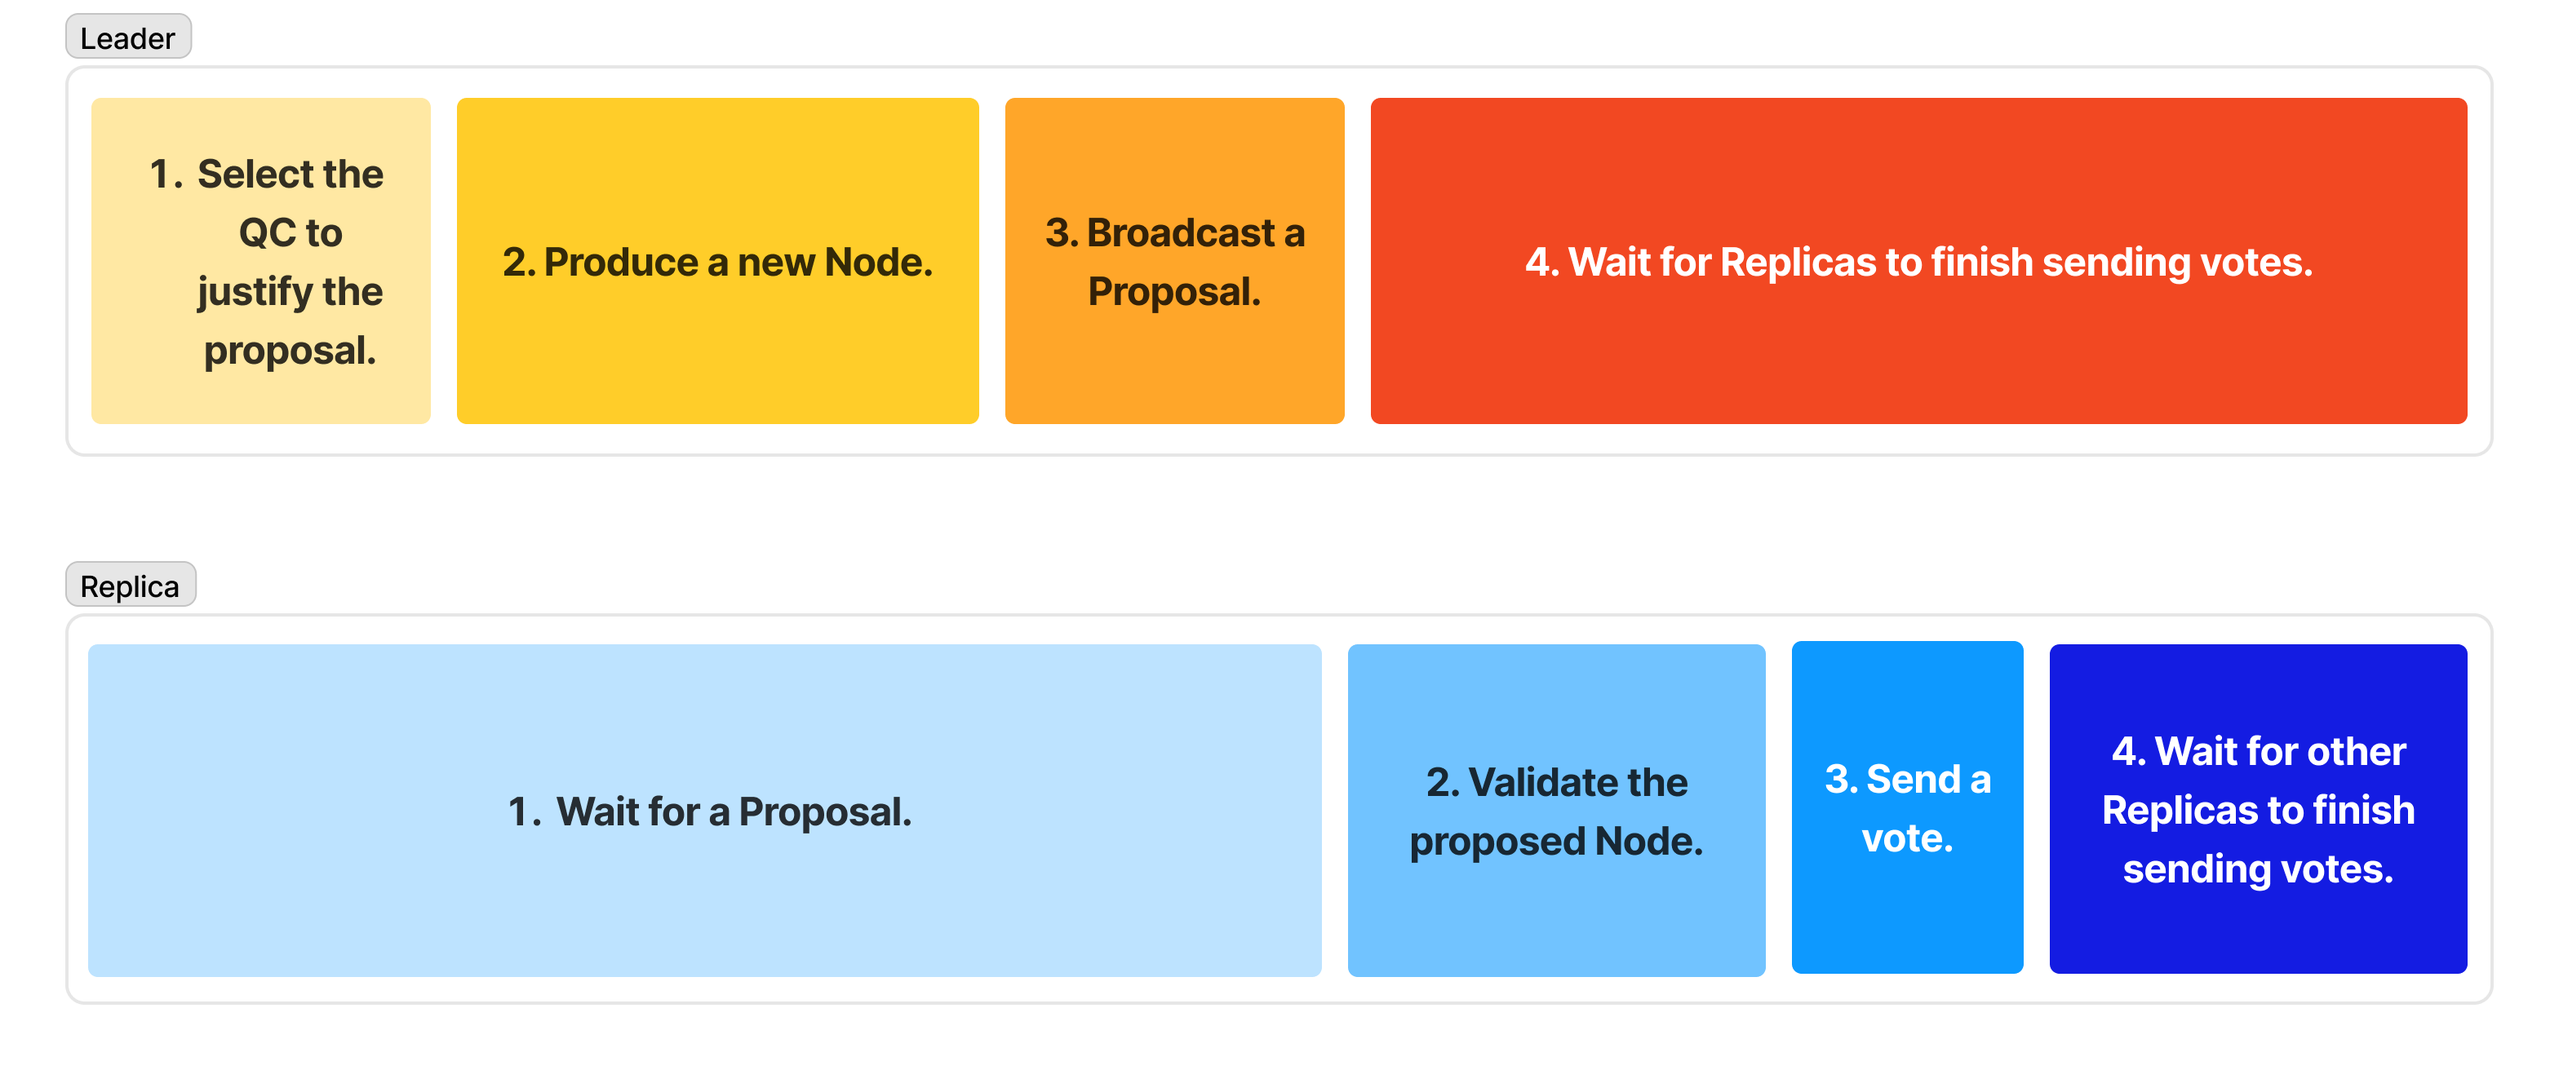
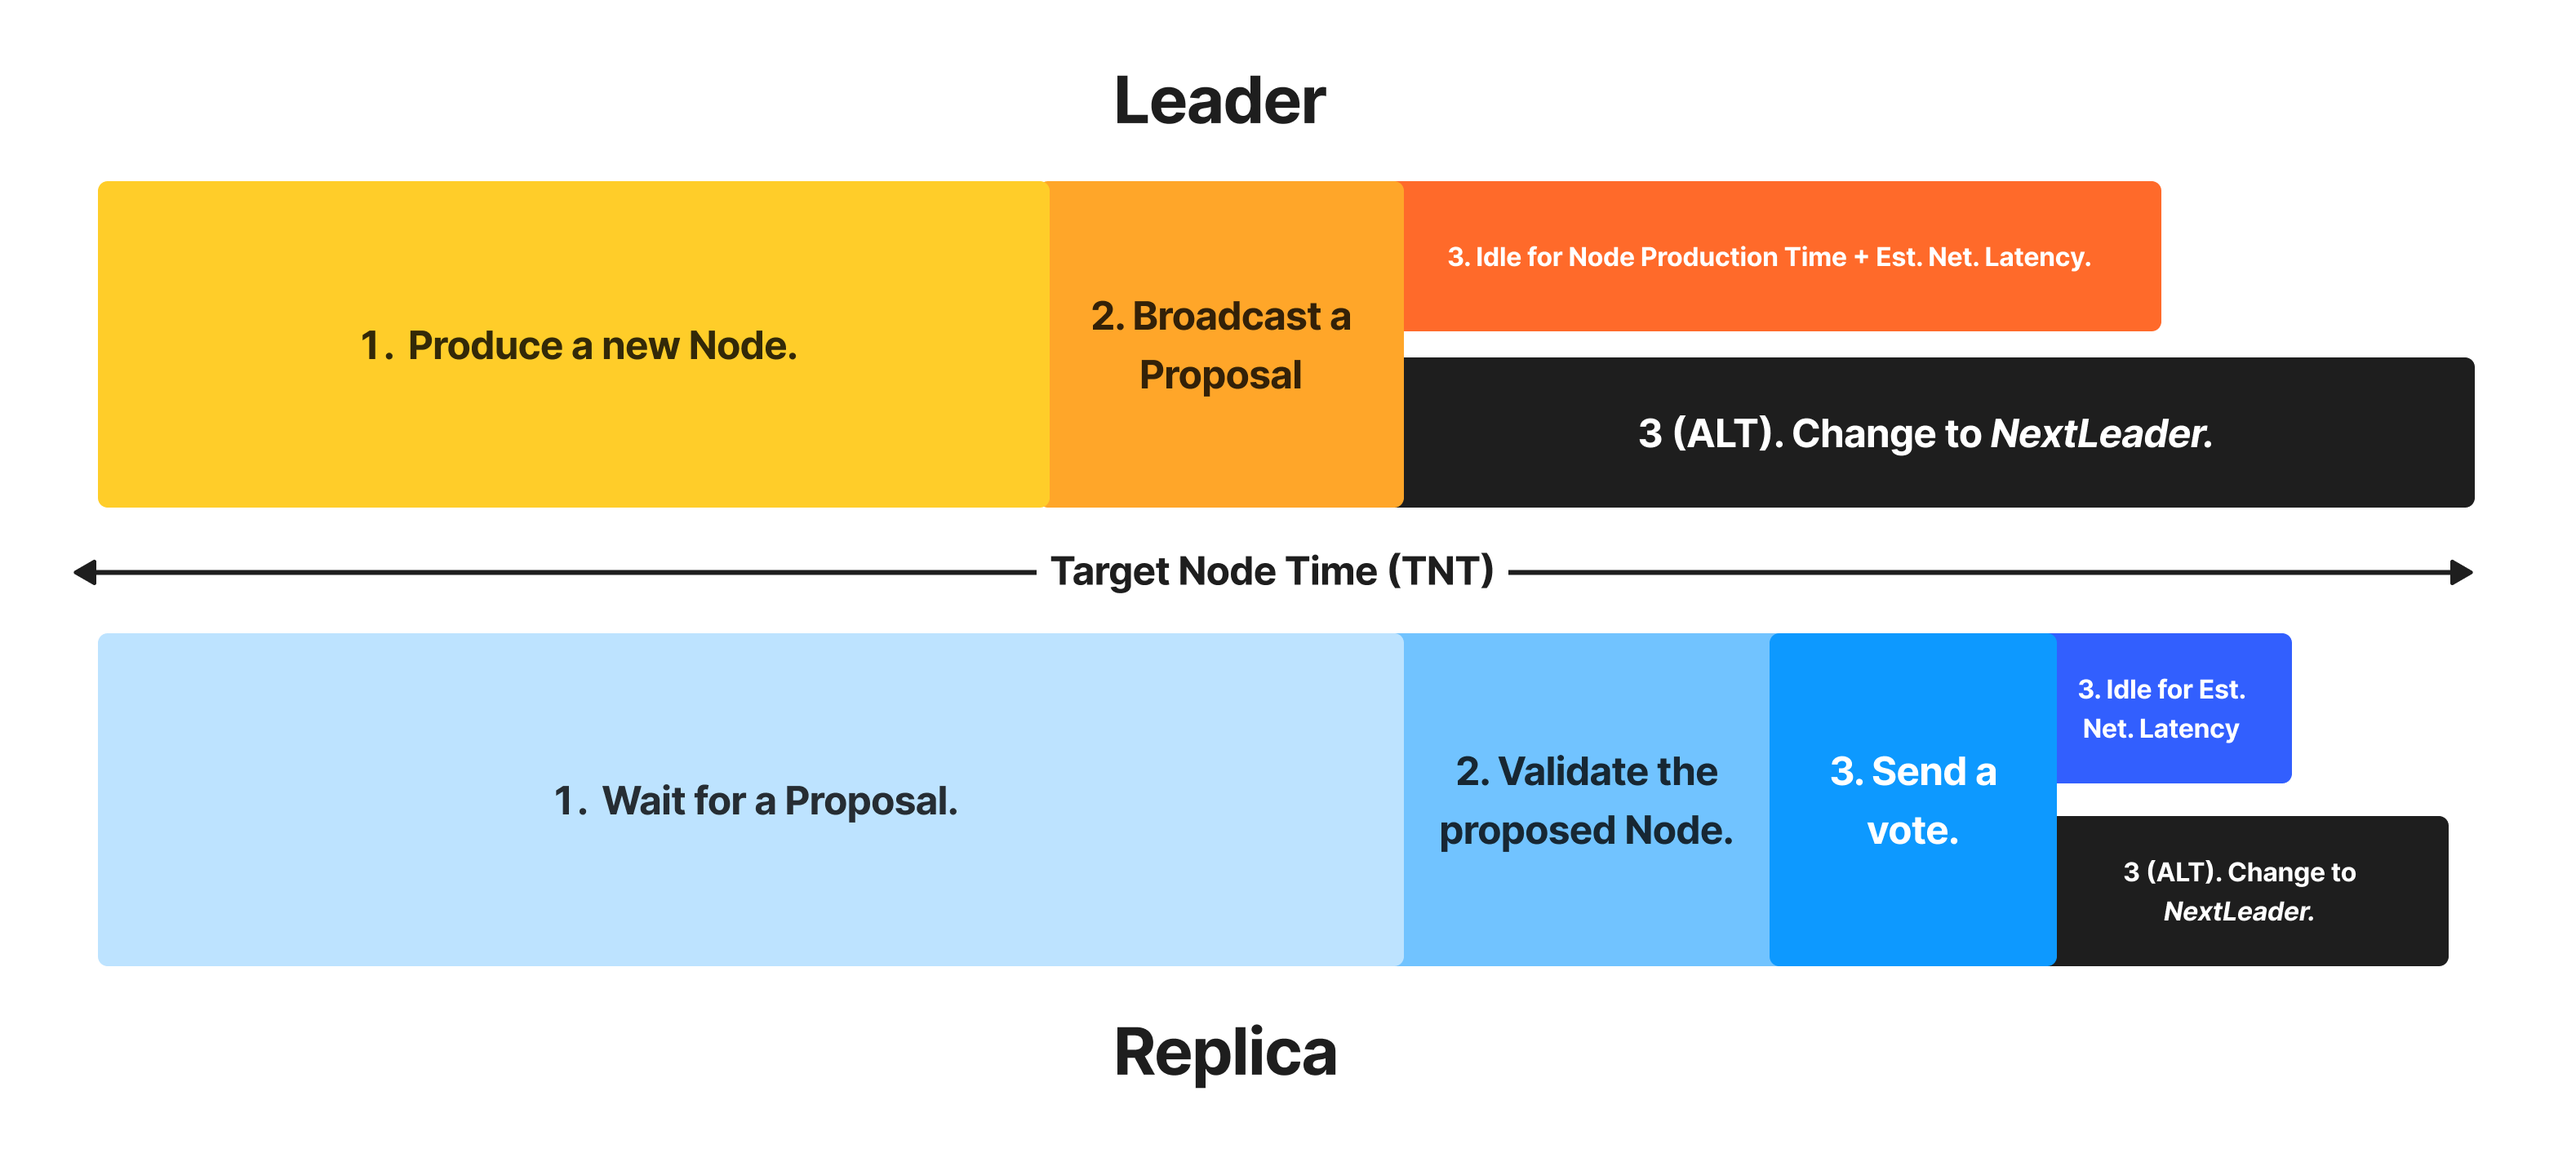
DOCUMENTATION: Update 'Phases of Progress Mode Execution' diagram to reflect changes to the protocol that Alice made in order to fix liveness issues related to 'start of View' time synchronization. WIP: Update Progress Mode text to reflect changes.

diff --git a/README.md b/README.md
@@ -119,7 +119,7 @@ The flow proceeds in the following sequence of steps:
 
 ![A graphic with 2 rows of 4 rectangles each. The first row depicts the phases of Leader execution, the second depicts the phases of Replica execution.](./readme_assets/Phases%20of%20Progress%20Mode%20execution.png)
 
-The *Progress Mode* works to extend the NodeTree. Starting with *BeginView*, the flow proceeds through 4 states: *BeginView*, *Leader*, *Replica*, and *NewView*. This section documents Progress Mode behavior in terms of its steps. To aid with understanding, we group the steps of the Leader and Replica states in terms of high-level 'phases', as illustrated in the time-sequence diagram above.
+The *Progress Mode* works to extend the NodeTree. Starting with *BeginView*, the flow cycles between 5 states: *BeginView*, *Leader*, *Replica*, *NextLeader*, and *NewView*. This section documents Progress Mode behavior in terms of its steps. To aid with understanding, we group the steps of the Leader and Replica states in terms of high-level 'phases', as illustrated in the time-sequence diagram above.
 
 ### BeginView
 
@@ -180,6 +180,8 @@ The *Progress Mode* works to extend the NodeTree. Starting with *BeginView*, the
 #### Phase 4: Wait for other Replicas to finish sending votes.
 5. Sleep for the remaining duration of the View Timeout.
 4. Set `view_number += 1` and return to *BeginView*.
+
+### NextLeader
 
 ### NewView
 
